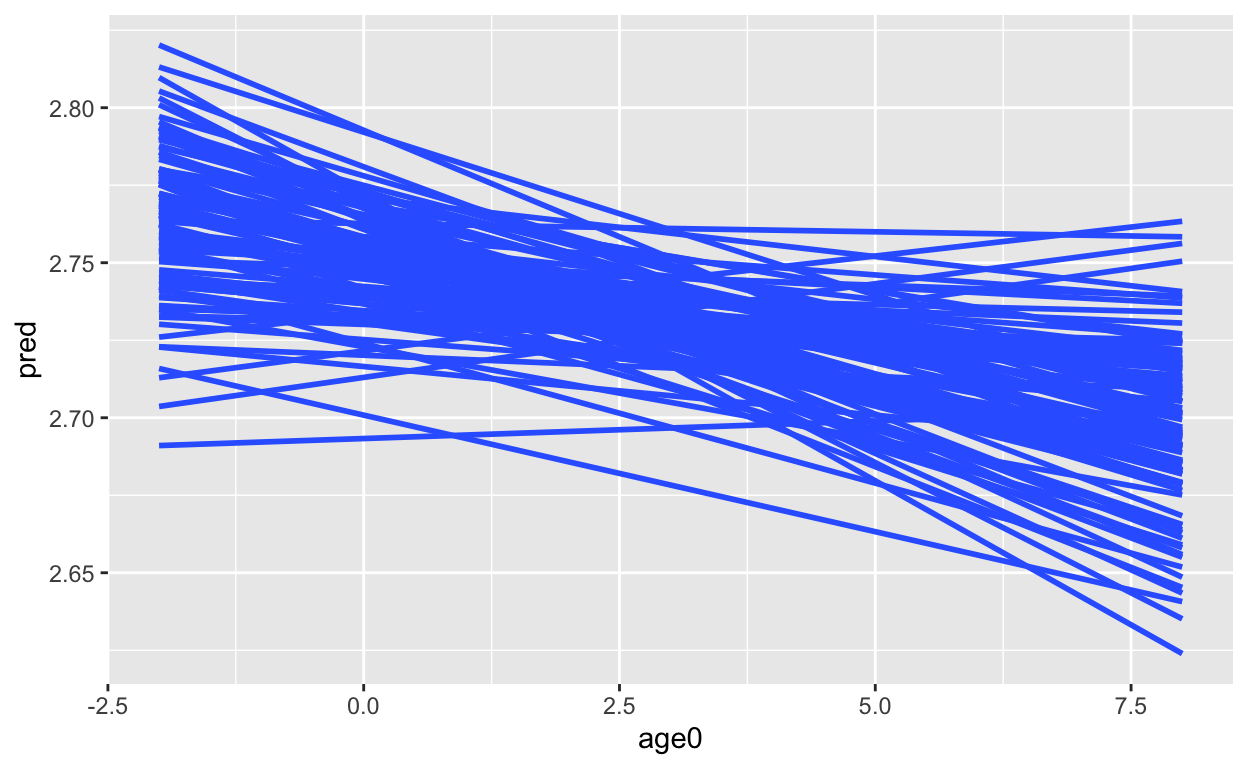
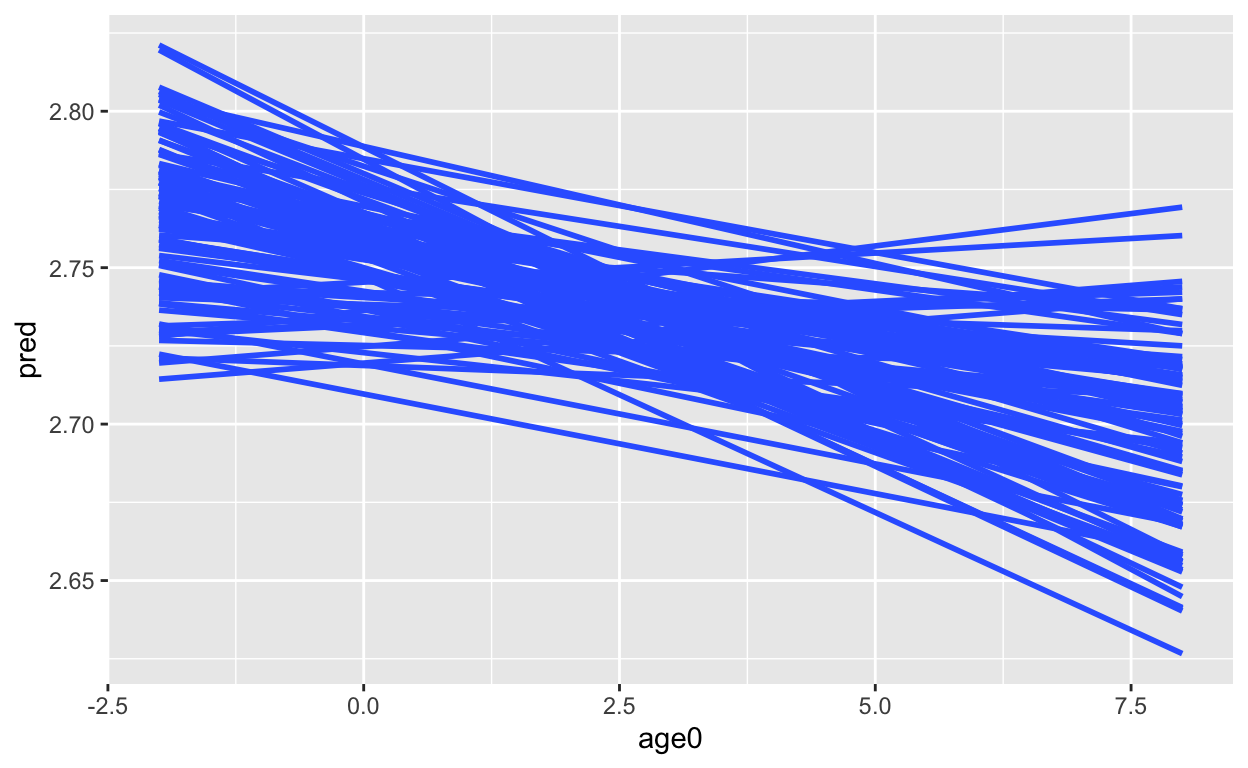
third times a charm for plots

diff --git a/_site/plotting.html b/_site/plotting.html
@@ -3040,8 +3040,10 @@ Adjusted for:
   <span class='fu'><a href='https://modelr.tidyverse.org/reference/add_predictions.html'>add_predictions</a></span><span class='op'>(</span><span class='va'>sens.1</span><span class='op'>)</span> <span class='op'>%&gt;%</span> 
   <span class='fu'>ggplot</span><span class='op'>(</span><span class='fu'>aes</span><span class='op'>(</span>y <span class='op'>=</span> <span class='va'>pred</span>, x <span class='op'>=</span> <span class='va'>age0</span>, group <span class='op'>=</span> <span class='va'>PROC_CID</span><span class='op'>)</span><span class='op'>)</span> <span class='op'>+</span>
   <span class='fu'>geom_line</span><span class='op'>(</span>alpha <span class='op'>=</span> <span class='fl'>.2</span><span class='op'>)</span>
+<span class='va'>m.1</span>
 </code></pre>
 </div>
+<p><img src="plotting_files/figure-html5/unnamed-chunk-20-1.png" width="624" /></p>
 </div>
 <div class="layout-chunk" data-layout="l-body">
 <div class="sourceCode">
@@ -3240,16 +3242,16 @@ Adjusted for:
 # Groups:   .id [100]
    strap .id   models effect group term  estimate std.error statistic
    &lt;lis&gt; &lt;chr&gt; &lt;list&gt; &lt;chr&gt;  &lt;chr&gt; &lt;chr&gt;    &lt;dbl&gt;     &lt;dbl&gt;     &lt;dbl&gt;
- 1 &lt;res… 001   &lt;lmer… fixed  &lt;NA&gt;  (Int…  2.75      0.0210    131.   
- 2 &lt;res… 001   &lt;lmer… fixed  &lt;NA&gt;  age0  -0.0118    0.00771    -1.53 
- 3 &lt;res… 001   &lt;lmer… ran_p… PROC… sd__…  0.529    NA          NA    
- 4 &lt;res… 001   &lt;lmer… ran_p… PROC… cor_… -0.266    NA          NA    
- 5 &lt;res… 001   &lt;lmer… ran_p… PROC… sd__…  0.172    NA          NA    
- 6 &lt;res… 001   &lt;lmer… ran_p… Resi… sd__…  0.138    NA          NA    
- 7 &lt;res… 002   &lt;lmer… fixed  &lt;NA&gt;  (Int…  2.76      0.0202    136.   
- 8 &lt;res… 002   &lt;lmer… fixed  &lt;NA&gt;  age0  -0.00469   0.00534    -0.878
- 9 &lt;res… 002   &lt;lmer… ran_p… PROC… sd__…  0.497    NA          NA    
-10 &lt;res… 002   &lt;lmer… ran_p… PROC… cor_… -0.362    NA          NA    
+ 1 &lt;res… 001   &lt;lmer… fixed  &lt;NA&gt;  (Int…  2.79      0.0215    129.   
+ 2 &lt;res… 001   &lt;lmer… fixed  &lt;NA&gt;  age0  -0.00938   0.00548    -1.71 
+ 3 &lt;res… 001   &lt;lmer… ran_p… PROC… sd__…  0.542    NA          NA    
+ 4 &lt;res… 001   &lt;lmer… ran_p… PROC… cor_… -0.443    NA          NA    
+ 5 &lt;res… 001   &lt;lmer… ran_p… PROC… sd__…  0.107    NA          NA    
+ 6 &lt;res… 001   &lt;lmer… ran_p… Resi… sd__…  0.223    NA          NA    
+ 7 &lt;res… 002   &lt;lmer… fixed  &lt;NA&gt;  (Int…  2.72      0.0205    133.   
+ 8 &lt;res… 002   &lt;lmer… fixed  &lt;NA&gt;  age0   0.00152   0.00484     0.315
+ 9 &lt;res… 002   &lt;lmer… ran_p… PROC… sd__…  0.505    NA          NA    
+10 &lt;res… 002   &lt;lmer… ran_p… PROC… cor_… -0.329    NA          NA    
 # … with 590 more rows, and 1 more variable: fits &lt;list&gt;</code></pre>
 </div>
 <div class="layout-chunk" data-layout="l-body">
@@ -3270,18 +3272,18 @@ Adjusted for:
 </div>
 <pre><code># A tibble: 208,400 x 18
 # Groups:   .id [100]
-   strap .id   models results SensSeek  age0 PROC_CID .fitted   .resid
-   &lt;lis&gt; &lt;chr&gt; &lt;list&gt; &lt;list&gt;     &lt;dbl&gt; &lt;dbl&gt;    &lt;dbl&gt;   &lt;dbl&gt;    &lt;dbl&gt;
- 1 &lt;res… 001   &lt;lmer… &lt;tibbl…     3.67    -2   156604    3.63  0.0387 
- 2 &lt;res… 001   &lt;lmer… &lt;tibbl…     3.33     8    92802    3.35 -0.0132 
- 3 &lt;res… 001   &lt;lmer… &lt;tibbl…     3        0     9503    3.00  0.00257
- 4 &lt;res… 001   &lt;lmer… &lt;tibbl…     2.67     6   629102    2.62  0.0443 
- 5 &lt;res… 001   &lt;lmer… &lt;tibbl…     2.67     0   718403    2.68 -0.0142 
- 6 &lt;res… 001   &lt;lmer… &lt;tibbl…     2       -2   629703    2.01 -0.0146 
- 7 &lt;res… 001   &lt;lmer… &lt;tibbl…     3       -2   512504    2.99  0.00821
- 8 &lt;res… 001   &lt;lmer… &lt;tibbl…     2.67     2  1204201    2.66  0.00349
- 9 &lt;res… 001   &lt;lmer… &lt;tibbl…     3        0   964804    2.99  0.0116 
-10 &lt;res… 001   &lt;lmer… &lt;tibbl…     3        0   598001    2.89  0.109  
+   strap .id   models results SensSeek  age0 PROC_CID .fitted  .resid
+   &lt;lis&gt; &lt;chr&gt; &lt;list&gt; &lt;list&gt;     &lt;dbl&gt; &lt;dbl&gt;    &lt;dbl&gt;   &lt;dbl&gt;   &lt;dbl&gt;
+ 1 &lt;res… 001   &lt;lmer… &lt;tibbl…     3        8   551801    2.90  0.100 
+ 2 &lt;res… 001   &lt;lmer… &lt;tibbl…     3.33     8   827602    3.36 -0.0227
+ 3 &lt;res… 001   &lt;lmer… &lt;tibbl…     2.67     0   830902    2.51  0.154 
+ 4 &lt;res… 001   &lt;lmer… &lt;tibbl…     2.67     2    18301    2.71 -0.0459
+ 5 &lt;res… 001   &lt;lmer… &lt;tibbl…     2       -2   124402    1.97  0.0289
+ 6 &lt;res… 001   &lt;lmer… &lt;tibbl…     4       -2   827901    3.87  0.126 
+ 7 &lt;res… 001   &lt;lmer… &lt;tibbl…     2.33     4   153301    2.61 -0.277 
+ 8 &lt;res… 001   &lt;lmer… &lt;tibbl…     3.67    -2   837502    3.62  0.0455
+ 9 &lt;res… 001   &lt;lmer… &lt;tibbl…     2.33     4   565201    2.37 -0.0350
+10 &lt;res… 001   &lt;lmer… &lt;tibbl…     2.33     2   851004    2.36 -0.0230
 # … with 208,390 more rows, and 9 more variables: .hat &lt;dbl&gt;,
 #   .cooksd &lt;dbl&gt;, .fixed &lt;dbl&gt;, .mu &lt;dbl&gt;, .offset &lt;dbl&gt;,
 #   .sqrtXwt &lt;dbl&gt;, .sqrtrwt &lt;dbl&gt;, .weights &lt;dbl&gt;, .wtres &lt;dbl&gt;</code></pre>
@@ -3302,15 +3304,15 @@ Adjusted for:
     age0 .id    pred
    &lt;dbl&gt; &lt;chr&gt; &lt;dbl&gt;
  1    -2 001    2.78
- 2    -2 002    2.75
- 3    -2 003    2.70
- 4    -2 004    2.83
- 5    -2 005    2.78
- 6    -2 006    2.80
- 7    -2 007    2.79
- 8    -2 008    2.77
- 9    -2 009    2.72
-10    -2 010    2.75
+ 2    -2 002    2.74
+ 3    -2 003    2.75
+ 4    -2 004    2.76
+ 5    -2 005    2.77
+ 6    -2 006    2.81
+ 7    -2 007    2.77
+ 8    -2 008    2.81
+ 9    -2 009    2.76
+10    -2 010    2.80
 # … with 590 more rows</code></pre>
 </div>
 <div class="layout-chunk" data-layout="l-body">
